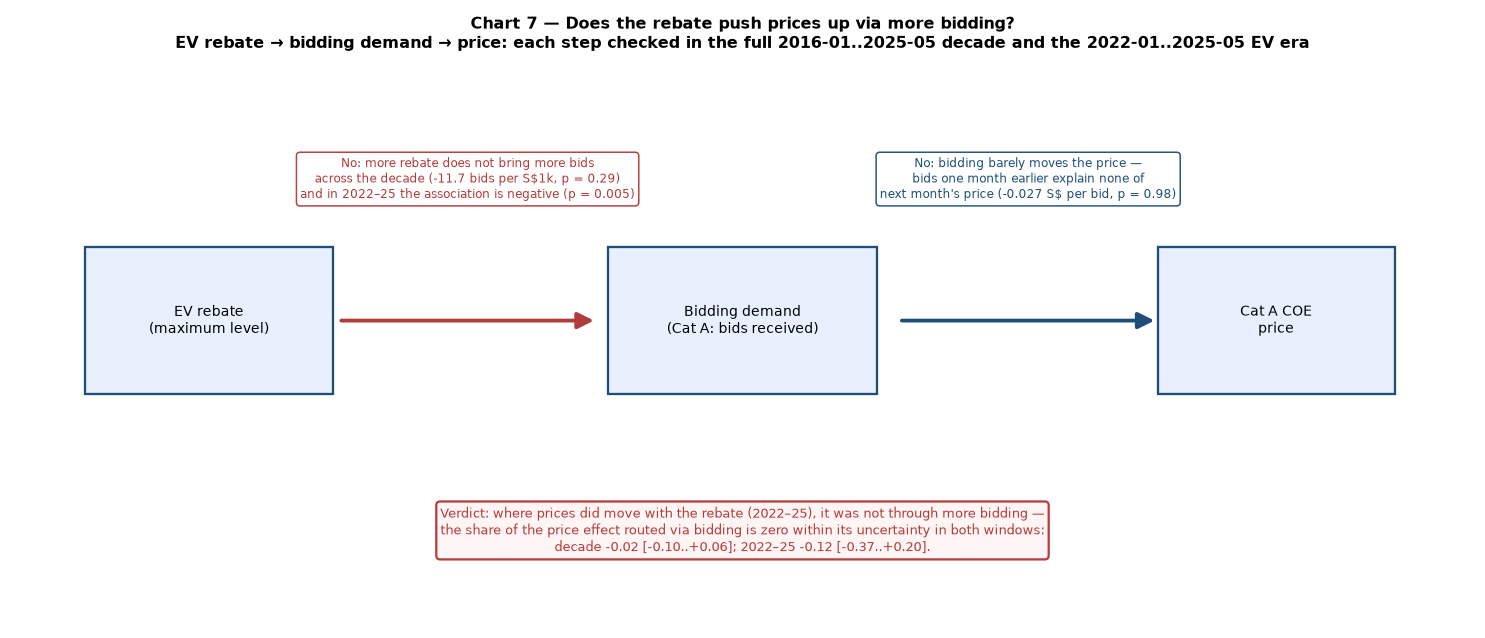
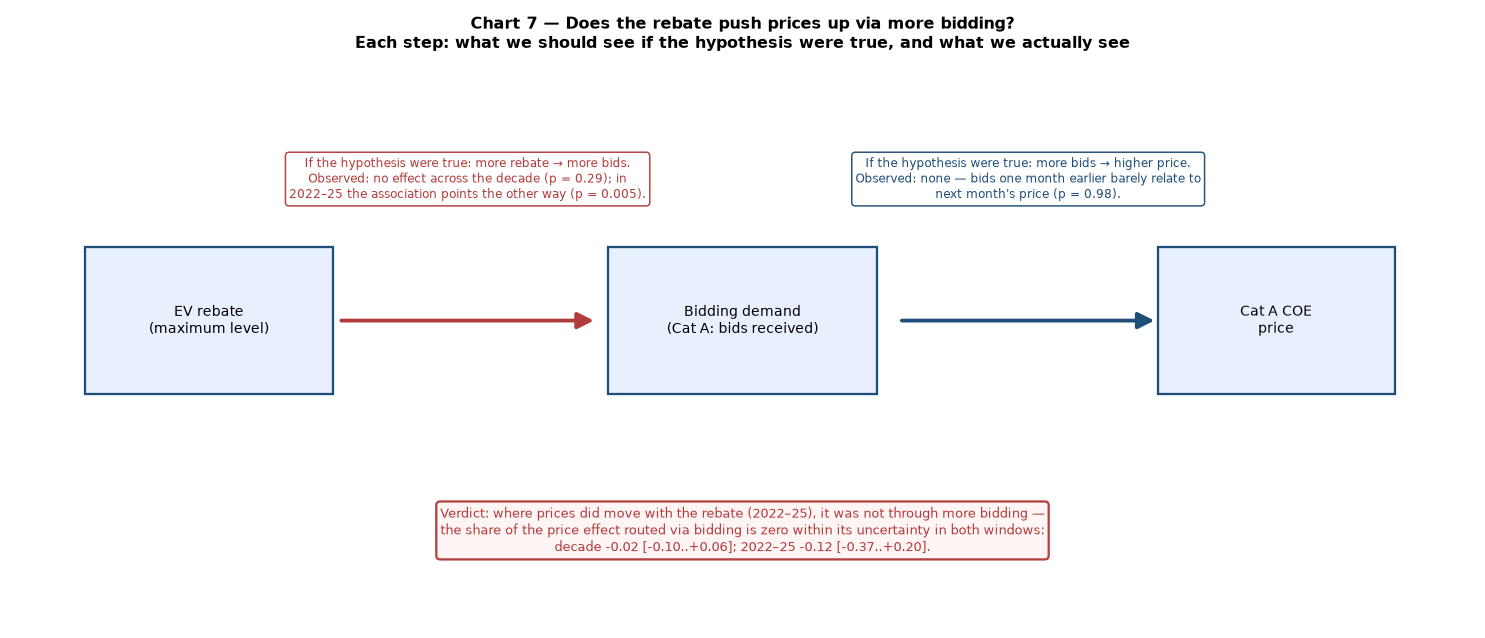
Figure 7: show prediction vs observation per step, mirroring section 4.6
The section argues two things should be visible if the hypothesis were
true; the figure now illustrates that directly: each arrow carries
'If the hypothesis were true: ... / Observed: ...' (with table-driven
p-values), the title's second line states the expected-vs-observed
framing, and the README figure heading/caption plus the report
inventory line are updated to match.

Changed region(s): [[0.1239, 0.0596, 0.8983, 0.0893], [0.1859, 0.2382, 0.4337, 0.3276], [0.5576, 0.2382, 0.8054, 0.3276]]

diff --git a/src/13_charts.py b/src/13_charts.py
@@ -499,8 +499,7 @@ def chart07() -> None:
     ax.axis("off")
     ax.set_title(
         "Chart 7 — Does the rebate push prices up via more bidding?\n"
-        "EV rebate → bidding demand → price: each step checked in the full "
-        "2016-01..2025-05 decade and the 2022-01..2025-05 EV era",
+        "Each step: what we should see if the hypothesis were true, and what we actually see",
         fontsize=10.5,
     )
 
@@ -521,17 +520,17 @@ def chart07() -> None:
     # step 1: rebate -> bidding
     arrow(3.0, 3.1, 5.4, 3.1, "#b23b3b")
     ax.text(4.2, 4.55,
-            "No: more rebate does not bring more bids\n"
-            f"across the decade ({a['coef']:+.1f} bids per S$1k, p = {a['p']:.2f})\n"
-            f"and in 2022–25 the association is negative (p = {e1_bid['p']:.3f})",
+            "If the hypothesis were true: more rebate → more bids.\n"
+            f"Observed: no effect across the decade (p = {a['p']:.2f}); in\n"
+            f"2022–25 the association points the other way (p = {e1_bid['p']:.3f}).",
             ha="center", va="center", fontsize=8, color="#b23b3b",
             bbox=dict(boxstyle="round", fc="white", ec="#b23b3b", alpha=0.95))
     # step 2: bidding -> price
     arrow(8.2, 3.1, 10.6, 3.1, "#1f4e79")
     ax.text(9.4, 4.55,
-            "No: bidding barely moves the price —\n"
-            f"bids one month earlier explain none of\n"
-            f"next month's price ({b['coef']:+.3f} S$ per bid, p = {b['p']:.2f})",
+            "If the hypothesis were true: more bids → higher price.\n"
+            "Observed: none — bids one month earlier barely relate to\n"
+            f"next month's price (p = {b['p']:.2f}).",
             ha="center", va="center", fontsize=8, color="#1f4e79",
             bbox=dict(boxstyle="round", fc="white", ec="#1f4e79", alpha=0.95))
     # verdict

diff --git a/src/15_report.py b/src/15_report.py
@@ -823,7 +823,7 @@ def build_report(v: dict) -> str:
     A("| 4 | `charts/04_price_demand_dual.png` | `tables/chart04_price_demand_dual.csv` | Cat A COE price vs Cat A bids received, 2016-01..2025-05; 2022-01+ rebate era shaded, Jan 2024 cut marked |")
     A("| 5 | `charts/05_ev_demand.png` | `tables/chart05_ev_demand.csv` | EV registrations + EV share 2022-07..2025-05 (lower bound; some months have no count); Jan 2024 rebate cut marked |")
     A("| 6 | `charts/06_scatter_fit_ci.png` | `tables/chart06_scatter_fit_ci.csv` | price-vs-demand scatter with bivariate fitted line + 95% CI band (association only) |")
-    A("| 7 | `charts/07_mediation_diagram.png` | `tables/chart07_mediation_effects.csv` | mediation chain (rebate → bidding demand → price) as a single diagram: per-step verdicts (decade + 2022–25) and the not-via-bidding conclusion |")
+    A("| 7 | `charts/07_mediation_diagram.png` | `tables/chart07_mediation_effects.csv` | mediation chain (rebate → bidding demand → price) as a single diagram: per step, the prediction if the hypothesis were true vs the observed result (decade + 2022–25), and the not-via-bidding conclusion |")
     A("| 8 | `charts/08_event_study.png` | `tables/chart08_event_study.csv` | event-study coefficients with CIs for the 4 verified-policy events; pre-trend contamination annotated |")
     A("")
     A("---")

diff --git a/docs/REPORT.md b/docs/REPORT.md
@@ -321,7 +321,7 @@ not falsified on the 2022+ EV era, not isolating a clean EV effect on the full w
 | 4 | `charts/04_price_demand_dual.png` | `tables/chart04_price_demand_dual.csv` | Cat A COE price vs Cat A bids received, 2016-01..2025-05; 2022-01+ rebate era shaded, Jan 2024 cut marked |
 | 5 | `charts/05_ev_demand.png` | `tables/chart05_ev_demand.csv` | EV registrations + EV share 2022-07..2025-05 (lower bound; some months have no count); Jan 2024 rebate cut marked |
 | 6 | `charts/06_scatter_fit_ci.png` | `tables/chart06_scatter_fit_ci.csv` | price-vs-demand scatter with bivariate fitted line + 95% CI band (association only) |
-| 7 | `charts/07_mediation_diagram.png` | `tables/chart07_mediation_effects.csv` | mediation chain (rebate → bidding demand → price) as a single diagram: per-step verdicts (decade + 2022–25) and the not-via-bidding conclusion |
+| 7 | `charts/07_mediation_diagram.png` | `tables/chart07_mediation_effects.csv` | mediation chain (rebate → bidding demand → price) as a single diagram: per step, the prediction if the hypothesis were true vs the observed result (decade + 2022–25), and the not-via-bidding conclusion |
 | 8 | `charts/08_event_study.png` | `tables/chart08_event_study.csv` | event-study coefficients with CIs for the 4 verified-policy events; pre-trend contamination annotated |
 
 ---

diff --git a/README.md b/README.md
@@ -264,9 +264,10 @@ price effect routed through bidding is zero within its uncertainty in
 both windows.
 
 **Figure 7.** The hypothesized chain — rebate → bidding demand → price —
-and where it breaks.
+with, for each step, what we should see if the hypothesis were true and
+what we actually see.
 
-![The hypothesized chain: rebate → bidding demand → price, with a verdict on each step and on the whole chain](charts/07_mediation_diagram.png)
+![The hypothesized chain: rebate → bidding demand → price; for each step, the prediction if the hypothesis were true and the observed result](charts/07_mediation_diagram.png)
 
 *Numbers: a S$1k higher rebate is associated with ≈12 fewer bids across
 the decade (−11.7, not significant, p = 0.29) and with ≈111 fewer bids
